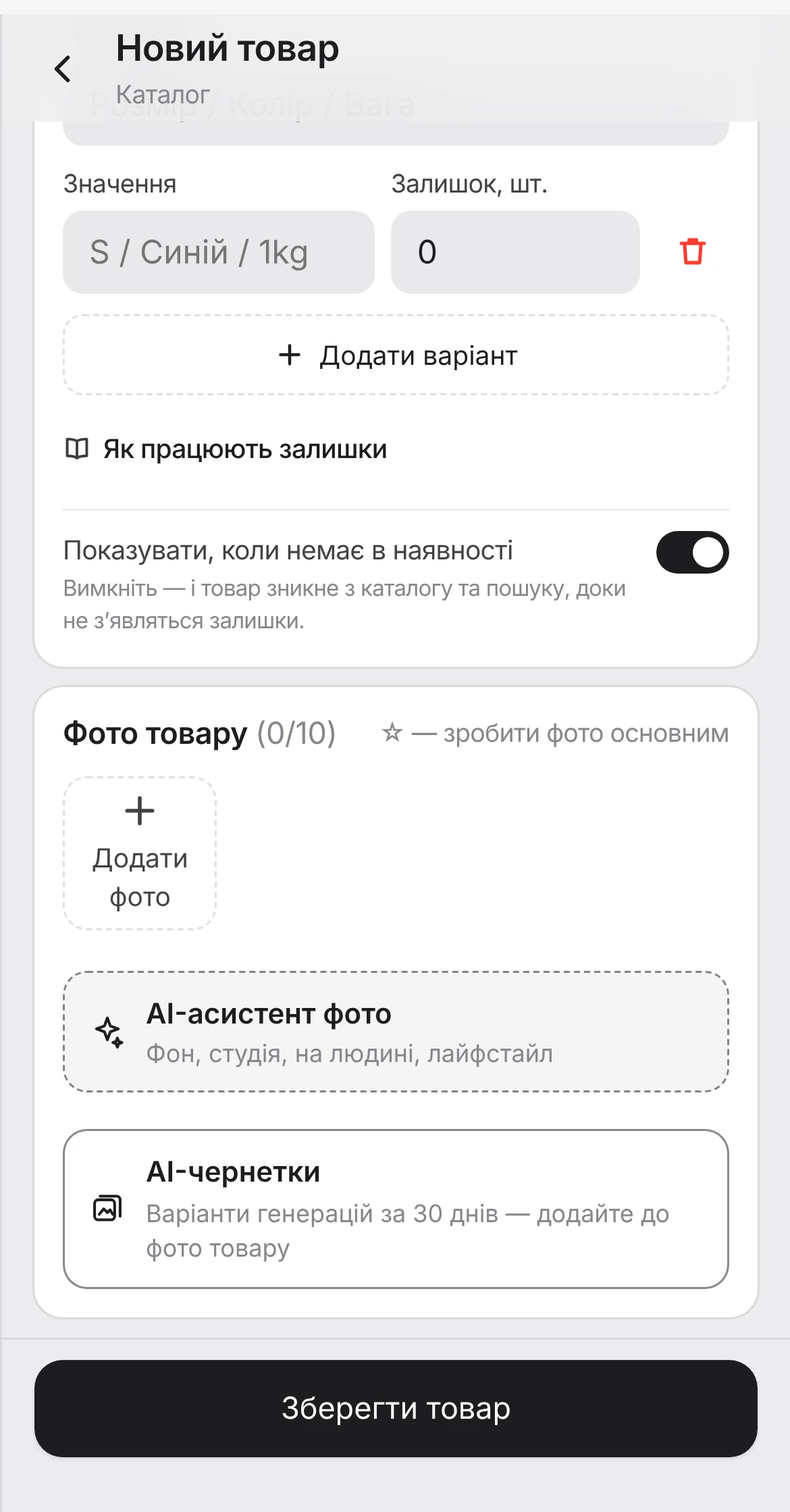
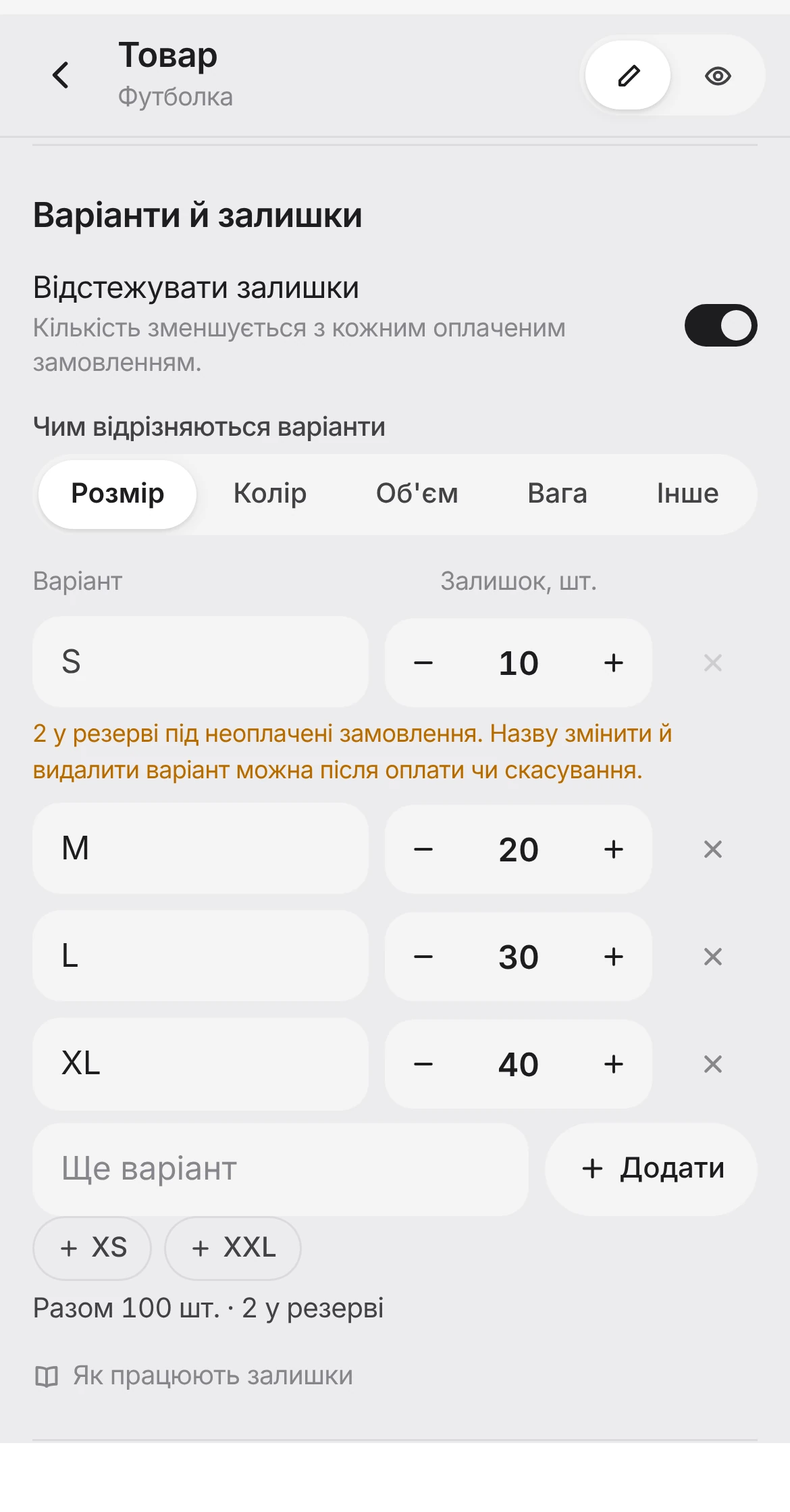
Екран товару: один для створення й редагування, перегляд у магазині, видалення (#14)
Розділ «Товари» в owner-guide переписано під новий екран (insomnia.workshop #35):
блоки, дії з фото, варіанти й залишки, резерв, «Як побачать покупці»,
«Видалити товар». Нові знімки product-create, product-create-variants,
product-preview з демо-фото cartium.store. «Без ліміту залишку» більше не
назва в інтерфейсі: замінено на перемикач «Відстежувати залишки».

Claude-Session: https://claude.ai/code/session_01Tv2wQKJRwy2x9o7FNnTaLJ

diff --git a/docs/_internal/platform-facts.md b/docs/_internal/platform-facts.md
@@ -261,7 +261,7 @@ Stripe і PayPal підтверджуються автоматично (пове
 | Режим | Назва в інтерфейсі |
 |---|---|
 | `tracked` | `Відстежувати залишки` |
-| `untracked` | `Без ліміту залишку` |
+| `untracked` | перемикач `Відстежувати залишки` вимкнено (окремої назви режиму в WebApp немає з 2026-11-14) |
 
 Поняття: `stock` — фактичний залишок, `reserved` — резерв під незавершені
 замовлення.
@@ -274,9 +274,7 @@ Stripe і PayPal підтверджуються автоматично (пове
 
 ## Форма товару
 
-Поля: назва, опис, ціна (грн), категорія, режим залишків, назва опції
-(плейсхолдер `Розмір / Колір / Вага`), варіанти, фото (до 10, кнопка `Додати фото` в блоці `Фото товару`),
-чекбокс `Активний у каталозі`, кнопка `Зберегти та додати товар`.
+Застаріло: див. «Екран товару (2026-11-14)» наприкінці файлу.
 
 ---
 
@@ -392,3 +390,17 @@ refs для міста і відділення.
 **Екрани без рамок (2026-10-31, insomnia.workshop #18).** Усі екрани з `Оплати` і `Доставка` (валюта, країни, служби, відправник, Stripe, PayPal, Нова пошта) тепер суцільні аркуші без карток; лічильники вгорі теж без рамки. Екран `Країни доставки` (підзаголовок «Звідки ви відправляєте і куди доставляєте»): розділ `Звідки` (прапор, назва, «Країна вашого складу», `Змінити`); розділ `Куди` («Обрано N»), кнопки `Лише <країна>`, `<країна> і ЄС` (для країни ЄС: `Увесь ЄС`), `Уся Європа`; пошук `Знайти країну`; ваша країна («ваша країна») і регіони `Європейський Союз`, `Європа поза ЄС` («N з M» або «N країн», позначка на весь регіон); згорнутий регіон показує лише обрані, кнопки `Додати ще (N)` / `Показати всі (N)` / `Згорнути`; під країною служби через « · » або попередження «Увімкніть службу: …» / «Немає служби з вашої країни». Екран `Валюта магазину`: `Основна валюта` («У ній ви вводите ціни товарів.», рядки `Гривня`, `Євро`, `Злотий`, `Долар США`; при зміні — «Ціни товарів не перерахуються: …»), `Покупці можуть платити також у` (рядок з курсом «1 € = 48,10 грн» і перемикачем; основна валюта тут не показується), «Курс НБУ на <дата>, оновлюється щодня.», `Націнка до курсу` (кнопки `−` / `+` по 0,5 %, «Ціни у валюті на N% вищі за курс» / «Ціни у валюті точно за курсом»), превʼю «Товар за 1 000 грн покупець побачить як 21 € · 25 $». Джерела: `index.html` (`data-set-page="ship-countries"`, `"pay-currency"`), `main.js` (`renderShippingCountryList`, `refreshShippingCountryMeta`, `renderCurrencyChoice`, `renderCurrencyPreview`), `domain/shipping.py` (`countries_catalog`).
 
 **Підтримка (2026-11-04, рішення Illia).** Питання власники пишуть людині: `@cartium_support` (https://t.me/cartium_support). На `@cartium_support_bot` писати не можна: він лише створює магазини (`?start=connect`). У документації та на сайті «Напишіть нам» і футер «Звʼязок» ведуть на `@cartium_support`; кнопки «Створити магазин» лишаються на боті.
+
+## Екран товару (2026-11-14, `insomnia.workshop` develop)
+
+Один екран для створення й редагування (`backend/webapp/admin_products/main.js` → `peMarkup`, `peVariantsMarkup`, `pePhotosMarkup`). Відкривається `Додати товар`, дотиком по рядку товару або `⋮` → `Редагувати`. Меню рядка `⋮`: `Редагувати`, `Дублювати`, `Деактивувати`/`Активувати`, `Видалити`.
+
+- Шапка: стрілка назад, заголовок `Товар` / `Новий товар`, підзаголовок — назва (для нового «Ще не збережено»), перемикач `Редагування` / `Перегляд` (на ширині від 960 px перемикача немає, магазин видно праворуч).
+- Блоки по порядку: `Фото товару` (лічильник `N/10`, плитки 3:4, позначка `Обкладинка` на першому, підказка «Перше фото — обкладинка в каталозі. Торкніться фото, щоб кадрувати чи видалити, утримуйте — щоб змінити порядок.», кнопки `AI-асистент фото`, `AI-чернетки`; без фото — велика кнопка `Додати фото`); `Назва товару`; `Опис` (`необов'язково`); `Ціна` (поле `Ціна`, з перемикачем `Ціна зі знижкою` поля `Звичайна ціна` + `Ціна зі знижкою`, рядок «Покупці бачать … замість … · −N%»); `Категорія` (чіпи `Без категорії`, категорії, `+ Нова`; посилання `Також показувати в інших категоріях` → `Також показувати в`); `Варіанти й залишки` (перемикач `Відстежувати залишки`, `Чим відрізняються варіанти`: `Розмір` / `Колір` / `Об'єм` / `Вага` / `Інше`, колонки `Варіант` / `Залишок, шт.`, кнопки `−` `+`, поле `Ще варіант` + `Додати` (кілька через кому), підказки `+ XS`…, рядок «Разом N шт. · M у резерві»); `У каталозі` (`Активний`, `Показувати, коли немає в наявності`); митний блок для магазинів з доставкою за кордон; `Видалити товар` (лише в наявного).
+- Дії з фото (дотик): `Кадрувати`, `Зробити обкладинкою`, `Покращити з AI`, `Видалити фото`, `Скасувати`. Порядок — утримати й перетягнути (мишею — просто перетягнути).
+- Нижня панель: для нового завжди `Очистити` + `Зберегти товар`; для наявного лише після змін `Скасувати` + `Зберегти зміни`. Вихід зі змінами: «Вийти без збереження?».
+- Перевірки під полями: «Вкажіть назву — так товар шукатимуть покупці.», ціна, «Звичайна ціна має бути більшою за ціну зі знижкою.», повтор варіанта; облік без варіантів — «…хоча б один варіант…» з діями `Додати «Стандарт»` і `Не рахувати залишки`.
+- Варіант із резервом (неоплачені замовлення): «N у резерві під неоплачені замовлення. Назву змінити й видалити варіант можна після оплати чи скасування.» — назва лише для читання, видалити не можна (сервер теж відмовляє, `variant_reserved`). Збереження більше не обнуляє резерв.
+- Перегляд: справжній магазин у рамці (`Як побачать покупці`, `Картка` / `Сторінка`), незбережений товар першим у сітці; дотик по картці відкриває сторінку.
+- `Видалити товар` / `Видалити`: м'яке видалення (товар зникає з каталогу й списку, замовлення лишаються).
+

diff --git a/docs/import.md b/docs/import.md
@@ -84,7 +84,7 @@ icon: ph/file-arrow-up
 | `compare_at_price_uah`<br>_Стара ціна_ | Ціна до знижки. Має бути вищою за звичайну, інакше її буде проігноровано.<br>Приклад: `2299` |
 | `description`<br>_Опис_ | Опис товару |
 | `category`<br>_Категорія, Група_ | Категорія. Для підкатегорії напишіть `Розділ > Підрозділ`. Якщо такої категорії ще немає, її буде створено.<br>Приклад: `Одяг > Худі` |
-| `inventory_mode`<br>_Облік_ | `tracked` (`Відстежувати залишки`) або `untracked` (`Без ліміту залишку`). Якщо залишити порожнім: з варіантами й залишками буде `tracked`, в усіх інших випадках `untracked` |
+| `inventory_mode`<br>_Облік_ | `tracked` (`Відстежувати залишки`) або `untracked` (перемикач `Відстежувати залишки` вимкнено). Якщо залишити порожнім: з варіантами й залишками буде `tracked`, в усіх інших випадках `untracked` |
 | `option_label`<br>_Назва варіанта_ | Як називається вибір: `Розмір`, `Колір`, `Об'єм` |
 | `options`<br>_Варіанти, Розміри_ | Самі варіанти через <code>&#124;</code><br>Приклад: <code>S&#124;M&#124;L&#124;XL</code> |
 | `stocks`<br>_Залишки, Кількість_ | Залишки в тому ж порядку, що й варіанти, через <code>&#124;</code><br>Приклад: <code>6&#124;10&#124;8&#124;3</code> |
@@ -99,7 +99,7 @@ icon: ph/file-arrow-up
 | `compare_at_price_uah` | `Стара ціна`, `Ціна до знижки` | Ціна до знижки. Має бути вищою за звичайну, інакше її буде проігноровано | `2299` |
 | `description` | `Опис` | Опис товару | `Щільний футер з начосом` |
 | `category` | `Категорія`, `Група` | Категорія. Для підкатегорії напишіть `Розділ > Підрозділ`. Якщо такої категорії ще немає, її буде створено | `Одяг > Худі` |
-| `inventory_mode` | `Облік` | `tracked` (`Відстежувати залишки`) або `untracked` (`Без ліміту залишку`). Якщо залишити порожнім: з варіантами й залишками буде `tracked`, в усіх інших випадках `untracked` | `tracked` |
+| `inventory_mode` | `Облік` | `tracked` (`Відстежувати залишки`) або `untracked` (перемикач `Відстежувати залишки` вимкнено). Якщо залишити порожнім: з варіантами й залишками буде `tracked`, в усіх інших випадках `untracked` | `tracked` |
 | `option_label` | `Назва варіанта` | Як називається вибір | `Розмір` |
 | `options` | `Варіанти`, `Розміри`, `Розмір` | Самі варіанти через <code>&#124;</code> | <code>S&#124;M&#124;L&#124;XL</code> |
 | `stocks` | `Залишки`, `Кількість` | Залишки в тому ж порядку, що й варіанти, через <code>&#124;</code> | <code>6&#124;10&#124;8&#124;3</code> |

diff --git a/docs/assets/shots/README.md b/docs/assets/shots/README.md
@@ -6,7 +6,7 @@
 
 Більшість власників керують магазином з телефона, тому **усі знімки Mini App — мобільні**: 390×844 CSS-пікселів, щільність ×3 (файл 1170 px завширшки), WebP.
 
-Знімки не робляться руками: їх генерує сценарій `docshots` у репозиторії продукту (`insomnia.workshop`) на тестових даних, тож у них немає реальних клієнтів, телефонів чи ключів. Товари на знімках — ті самі демо-фото, що й на cartium.store (футболка, джинси, шорти з великим знаком питання й кільце), а не намальовані силуети.
+Знімки не робляться руками: їх генерує сценарій `docshots` у репозиторії продукту (`insomnia.workshop`) на тестових даних, тож у них немає реальних клієнтів, телефонів чи ключів. Товари на знімках — ті самі демо-фото, що й на cartium.store (футболка, джинси, шорти з великим знаком питання й кільце), а не намальовані силуети. Друге фото футболки — `tee-ai/ghost_mannequin.jpg`.
 
 ```bash
 # 1. У репозиторії продукту тимчасово ввімкнути фото товарів і щільність ×3
@@ -36,7 +36,7 @@ python tools/export_shots.py <шлях до insomnia.workshop>/tools/webapp-harn
 | `shell-catalog` | Вітрина з нижньою панеллю | index, quick-start, owner-guide |
 | `hub-products`, `hub-more-menu` | Розділ «Керування» і меню «Ще» | index, owner-guide |
 | `categories` | Вікно «Категорії» (сценарій додано в `tools/docshots-harness.patch`) | quick-start, owner-guide |
-| `product-create`, `product-create-variants` | Форма товару | quick-start, owner-guide |
+| `product-create`, `product-create-variants`, `product-preview` | Екран товару: верх, варіанти й залишки, перегляд у магазині | quick-start, owner-guide |
 | `import-empty`, `import-preview`, `import-result` | Імпорт каталогу | import |
 | `orders-list`, `order-details`, `order-actions`, `order-ttn` | Замовлення і дії з ТТН | index, quick-start, owner-guide, nova-poshta, launch |
 | `settings-subscription`, `settings-access-mode`, `settings-modules` | Підписка, режими доступу, модулі | owner-guide |

diff --git a/docs/payments.md b/docs/payments.md
@@ -347,8 +347,8 @@ LiqPay — платіжний сервіс ПриватБанку. Вам зна
 
 Замовлення з післяплатою мають власний ланцюжок статусів: `Очікує відправки` → `Відправлено` → `Очікує отримання` → `Оплачено`. Етапи ви позначаєте в замовленнях.
 
-!!! warning "Обмеження для товарів «Без ліміту залишку»"
-    Якщо товар працює в режимі `Без ліміту залишку` (під замовлення), самої лише післяплати **недостатньо** — оформлення буде заблоковане.
+!!! warning "Обмеження для товарів без обліку залишків"
+    Якщо в товару вимкнено `Відстежувати залишки` (під замовлення), самої лише післяплати **недостатньо** — оформлення буде заблоковане.
 
     Для таких товарів має бути увімкнена хоча б одна онлайн-оплата: `Stripe`, `PayPal`, `LiqPay`, `plata by mono`, `Оплата за посиланням` або `Оплата за реквізитами`.
 
@@ -396,7 +396,7 @@ LiqPay — платіжний сервіс ПриватБанку. Вам зна
 ??? question "Покупець не бачить потрібного способу оплати"
     - Переконайтеся, що спосіб увімкнений, у нього статус `Активний`, і ви натиснули `Зберегти зміни`. Спосіб зі статусом `Немає ключів` покупцям не показується.
     - Якщо гривню вимкнено в `Покупці можуть платити також у`, `LiqPay`, `plata by mono` і `Оплата за посиланням` не показуються. Увімкніть гривню або підключіть `Stripe` чи `PayPal`.
-    - Перевірте режим залишків товару: для `Без ліміту залишку` післяплата не показується без онлайн-оплати.
+    - Перевірте режим залишків товару: для товару без обліку залишків післяплата не показується без онлайн-оплати.
     - Перевірте `Налаштування` → `Підписка` — можливо, увімкнено `Пауза checkout`.
 
 ??? question "LiqPay пише, що компанію не активовано"

diff --git a/docs/quick-start.md b/docs/quick-start.md
@@ -87,7 +87,7 @@ icon: ph/rocket-launch
 
 Введіть `Назва`, у полі `Де розмістити` залиште `Основна категорія` і натисніть `Створити категорію`. Щоб зробити підкатегорію, наприклад «Одяг / Футболки», натисніть `+ Підкатегорія` біля потрібної категорії в списку `Ваші категорії`.
 
-Забули категорію під час додавання товару? Кнопка `+ Нова` поруч із полем `Основна категорія` створить її, не закриваючи форму.
+Забули категорію під час додавання товару? Кнопка `+ Нова` серед категорій на екрані товару створить її, не закриваючи екран.
 
 !!! info "Плануєте імпорт файлом?"
     Тоді цей крок можна пропустити: категорії з файлу створяться автоматично.
@@ -108,13 +108,13 @@ icon: ph/rocket-launch
 
 <p class="c-path" markdown="span">`Керування` → `Товари` → `Додати товар`</p>
 
-Заповніть назву, ціну, категорію й додайте фото (до 10). Розміри чи кольори заводьте **варіантами**, а не текстом в описі: тоді покупець обере їх кнопкою, а залишки рахуватимуться окремо.
+Додайте фото (до 10), заповніть назву, ціну й оберіть категорію. Розміри чи кольори заводьте **варіантами**, а не текстом в описі: тоді покупець обере їх кнопкою, а залишки рахуватимуться окремо. Перемикач `Перегляд` угорі покаже товар у вашому магазині ще до збереження.
 
 Товарів десятки чи сотні? Завантажте їх одним файлом: [Імпорт каталогу](import.md).
 
 </div>
 
-![Форма «Новий товар»](assets/shots/product-create.webp){ .phone }
+![Екран товару](assets/shots/product-create.webp){ .phone }
 
 </div>
 

diff --git a/docs/launch.md b/docs/launch.md
@@ -43,7 +43,7 @@ icon: ph/clipboard-text
 ### Оплати
 
 - [ ] Хоча б один спосіб має статус `Активний`
-- [ ] Для товарів `Без ліміту залишку` увімкнена хоча б одна онлайн-оплата
+- [ ] Для товарів без обліку залишків (перемикач `Відстежувати залишки` вимкнено) увімкнена хоча б одна онлайн-оплата
 - [ ] LiqPay працює на **бойових** ключах, а не `sandbox_…`, і компанію активовано
 - [ ] Для plata by mono збережений бойовий `Merchant Token`
 
